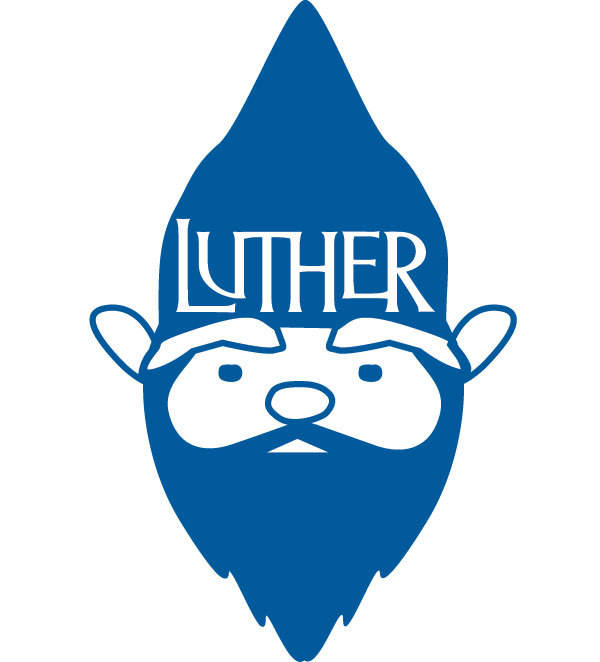
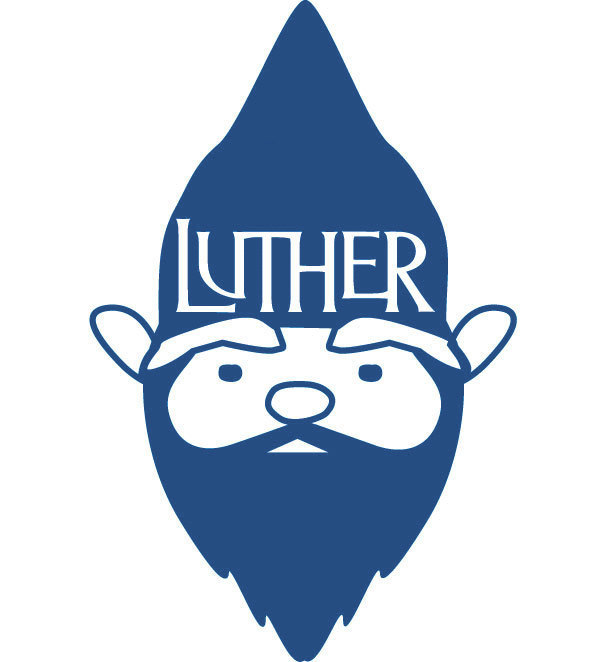
dark blue gnome

Changed region(s): [[0.15, 0.0, 0.81, 1.0], [0.78, 0.4532, 0.87, 0.5136], [0.81, 0.5136, 0.84, 0.5438]]

diff --git a/public/partials/login/login.css b/public/partials/login/login.css
@@ -172,7 +172,7 @@ input:focus ~ .highlight {
 }
 
 #header_bar{
-	background-color: #02599C;
+	background-color: #093A7D;
 	min-height: 320px;
 }
 
@@ -195,7 +195,7 @@ input:focus ~ .highlight {
   outline: none;
 }
 .btn1 {
- 	background-color: #02599C;
+ 	background-color: #093A7D;
 }
 .btn2 {
 	background-color: #4F97E9;
